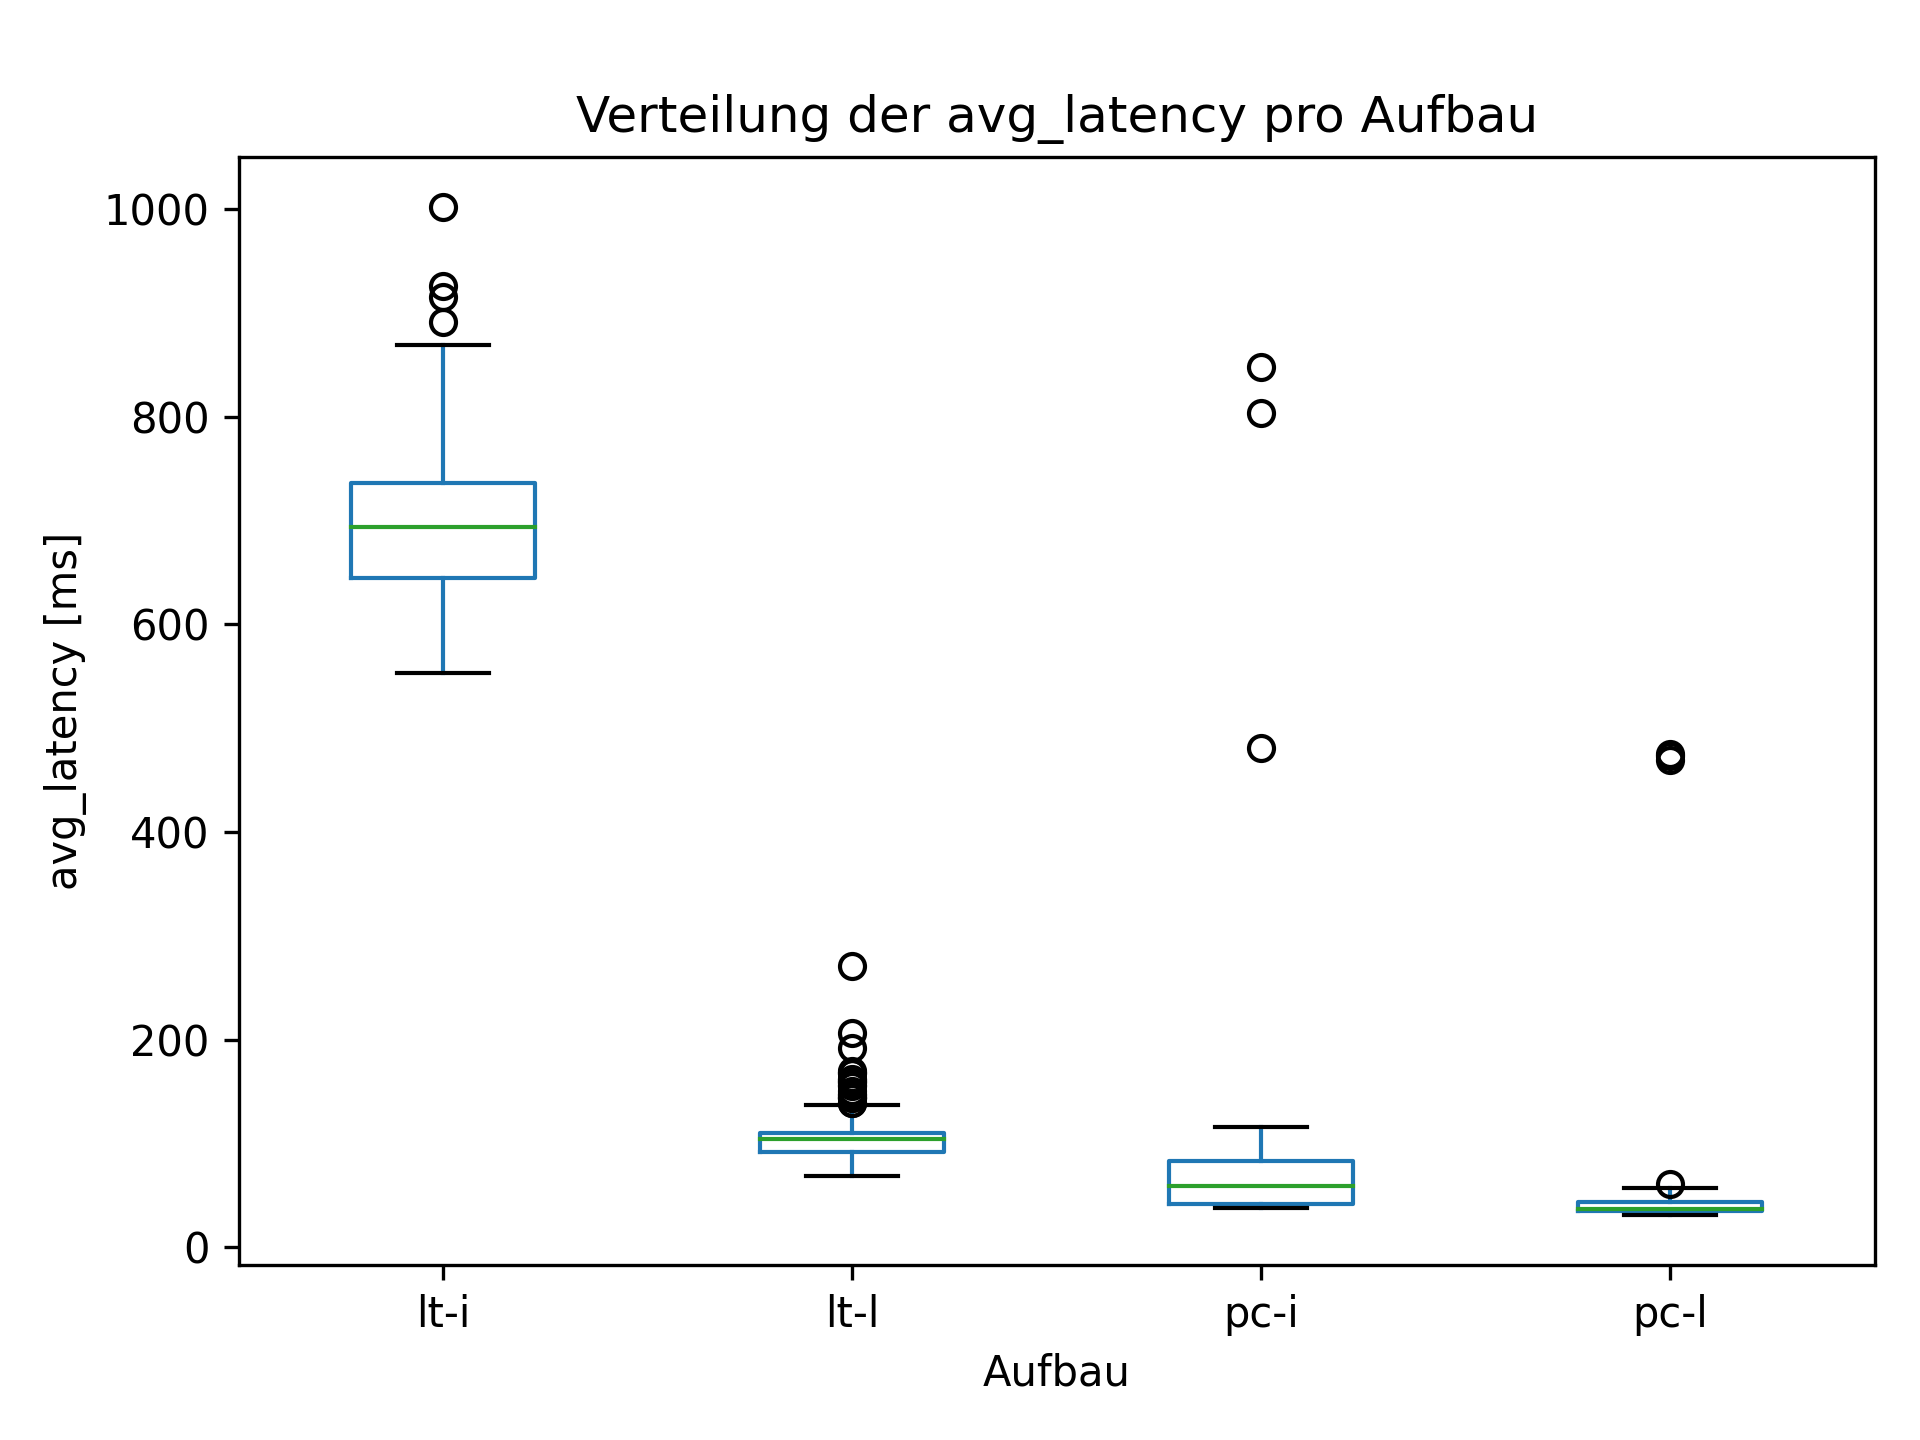
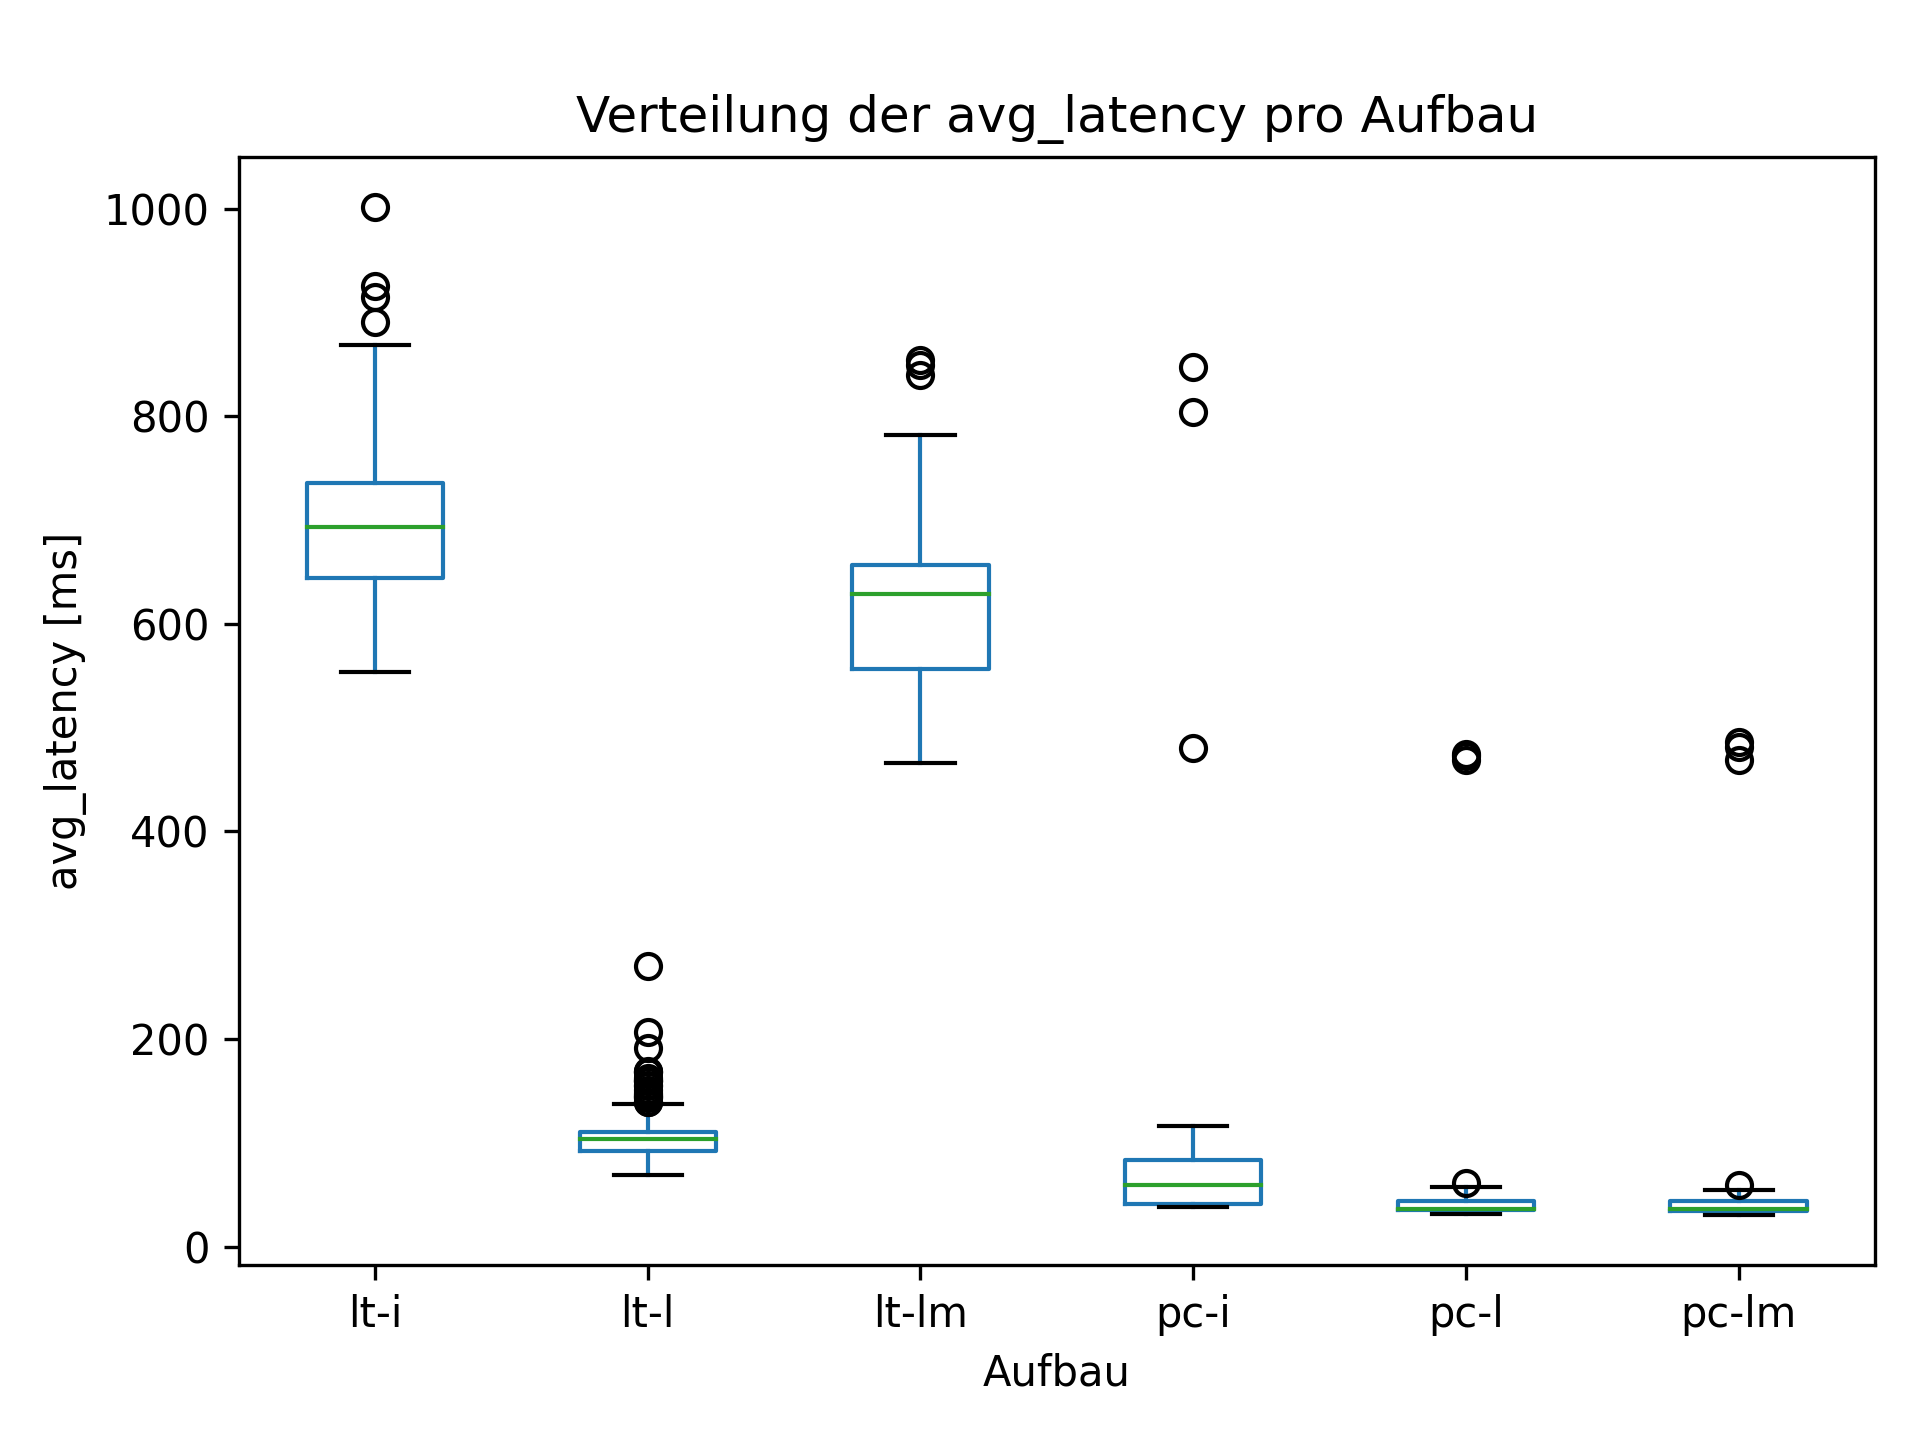
Fehler bei pc-lm ko9rrigiert

diff --git a/NR4/output/latenzies.py b/NR4/output/latenzies.py
@@ -5,8 +5,10 @@ import matplotlib.pyplot as plt
 dateien = {
     "pc-i": "latenz-pc-i.csv",
     "pc-l": "latenz-pc-l.csv",
+    "pc-lm": "latenz-pc-lm.csv",
     "lt-i": "latenz-lt-i.csv",
-    "lt-l": "latenz-lt-l.csv"
+    "lt-l": "latenz-lt-l.csv",
+    "lt-lm": "latenz-lt-lm.csv",
 }
 
 # CSV-Dateien einlesen
@@ -87,6 +89,7 @@ plt.xticks(rotation=0)
 plt.tight_layout()
 plt.savefig("diagramm_teil_latenzen.pdf", dpi=300)
 plt.show()
+
 
 # Diagramm 3: Boxplot der avg_latency für alle 4 Aufbauten in einem Diagramm
 

diff --git a/NR4/pc-l-m.py b/NR4/pc-l-m.py
@@ -21,8 +21,8 @@ register_pose_modules(init_default_scope=False)
 POSE_CONFIG  = '/home/mci/projects/motioncapture-ba/NR4/mmpose/configs/body_2d_keypoint/rtmpose/coco/rtmpose-t_8xb256-420e_coco-256x192.py'
 POSE_WEIGHTS = '/home/mci/projects/motioncapture-ba/NR4/weights/rtmpose_tiny.pth'
 
-DET_CONFIG   = '/home/mci/projects/motioncapture-ba/NR4/mmpose/demo/mmdetection_cfg/rtmdet_nano_320-8xb32_coco-person.py'
-DET_WEIGHTS  = '/home/mci/projects/motioncapture-ba/NR4/weights/rtmdet_nano.pth'
+DET_CONFIG   = '/home/floyu/mmpose_project/NR4/mmpose/demo/mmdetection_cfg/rtmdet_m_640-8xb32_coco-person.py'
+DET_WEIGHTS  = '/home/floyu/mmpose_project/NR4/weights/rtmdet_m.pth'
 
 VIDEO_PATH   = '/home/mci/projects/motioncapture-ba/NR4/input/Bild3.jpg'
 OUTPUT_DIR   = '/home/mci/projects/motioncapture-ba/NR4/output'